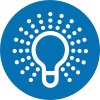
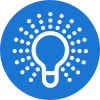
Restyled index so it is less blue, and more consistent - fixed keyframe animations not working in safari.

diff --git a/app/assets/stylesheets/frontend/word_switcher.scss b/app/assets/stylesheets/frontend/word_switcher.scss
@@ -23,25 +23,6 @@
   animation:leave-word 0.6s;
 }
 
-@keyframes leave-word {
-  0% {
-    transform: rotateX(0deg);
-    opacity: 0.4;
-  }
-  35% {
-    transform: rotateX(-80deg);
-    opacity: 0.2;
-  }
-  65% {
-    transform: rotateX(-20deg);
-    opacity: 0;
-  }
-  100% {
-    transform: rotateX(180deg);
-    opacity: 0;
-  }
-}
-
 #hero-word-switcher.in span.active {
   opacity: 1;
   transform: rotateX(0deg);
@@ -50,6 +31,62 @@
   animation: enter-word 1.0s;
 }
 
+#hero-word-switcher span {
+  position:absolute;
+  left:0;
+}
+
+@-webkit-keyframes enter-word {
+  0% {
+    transform: rotateX(180deg);
+    opacity: 0;
+  }
+  35% {
+    transform: rotateX(120deg);
+    opacity: 0;
+  }
+  65% {
+    opacity: 0;
+  }
+  100% {
+    transform: rotateX(360deg);
+    opacity: 1;
+  }
+}
+@-moz-keyframes enter-word {
+  0% {
+    transform: rotateX(180deg);
+    opacity: 0;
+  }
+  35% {
+    transform: rotateX(120deg);
+    opacity: 0;
+  }
+  65% {
+    opacity: 0;
+  }
+  100% {
+    transform: rotateX(360deg);
+    opacity: 1;
+  }
+}
+@-o-keyframes enter-word {
+  0% {
+    transform: rotateX(180deg);
+    opacity: 0;
+  }
+  35% {
+    transform: rotateX(120deg);
+    opacity: 0;
+  }
+  65% {
+    opacity: 0;
+  }
+  100% {
+    transform: rotateX(360deg);
+    opacity: 1;
+  }
+}
 @keyframes enter-word {
   0% {
     transform: rotateX(180deg);
@@ -68,7 +105,76 @@
   }
 }
 
-#hero-word-switcher span {
-  position:absolute;
-  left:0;
+
+@-webkit-keyframes leave-word {
+  0% {
+    transform: rotateX(0deg);
+    opacity: 0.4;
+  }
+  35% {
+    transform: rotateX(-80deg);
+    opacity: 0.2;
+  }
+  65% {
+    transform: rotateX(-20deg);
+    opacity: 0;
+  }
+  100% {
+    transform: rotateX(180deg);
+    opacity: 0;
+  }
+}
+@-moz-keyframes leave-word {
+  0% {
+    transform: rotateX(0deg);
+    opacity: 0.4;
+  }
+  35% {
+    transform: rotateX(-80deg);
+    opacity: 0.2;
+  }
+  65% {
+    transform: rotateX(-20deg);
+    opacity: 0;
+  }
+  100% {
+    transform: rotateX(180deg);
+    opacity: 0;
+  }
+}
+@-o-keyframes leave-word {
+  0% {
+    transform: rotateX(0deg);
+    opacity: 0.4;
+  }
+  35% {
+    transform: rotateX(-80deg);
+    opacity: 0.2;
+  }
+  65% {
+    transform: rotateX(-20deg);
+    opacity: 0;
+  }
+  100% {
+    transform: rotateX(180deg);
+    opacity: 0;
+  }
+}
+@keyframes leave-word {
+  0% {
+    transform: rotateX(0deg);
+    opacity: 0.4;
+  }
+  35% {
+    transform: rotateX(-80deg);
+    opacity: 0.2;
+  }
+  65% {
+    transform: rotateX(-20deg);
+    opacity: 0;
+  }
+  100% {
+    transform: rotateX(180deg);
+    opacity: 0;
+  }
 }

diff --git a/app/assets/stylesheets/frontend/pages.scss b/app/assets/stylesheets/frontend/pages.scss
@@ -17,19 +17,19 @@
 
 #pitchhub-banner-logo{
   font-family: 'Courgette', cursive;
-  color: white;
+  color: $color_dark;
   font-size: 6em;
 }
 
 #pitchhub-banner-copy{
   font-weight: 200;
-  color: white;
+  color: $color_dark;
   font-size: 3em;
 }
 
 #banner{
   width:100%;
-  background-color: #2C8DCC;
+  background-color: $color_light_main;
   background-repeat:no-repeat;
   background-size:cover;
   color: $color_pitch_primary_text;
@@ -38,7 +38,7 @@
 }
 
 .site-nav a {
-  color: white;
+  //color: white;
 }
 
 @media screen {
@@ -152,6 +152,18 @@
   margin-bottom: 0.3125em
 }
 
+
+.site-nav-divider{
+  color: #dadde1;
+  display: block;
+  font-size: 13px;
+  font-weight: 600;
+  padding: 0px 10px;
+  height: 34px;
+  line-height: 32px;
+  border-radius: 3px;
+  text-transform: uppercase;
+}
 /* Login */
 #login-background {
     width: 100%;

diff --git a/app/assets/stylesheets/backend/pitch_overwrite.scss b/app/assets/stylesheets/backend/pitch_overwrite.scss
@@ -30,7 +30,7 @@ a.sidebar-title:focus {
 }
 
 body #auth-background{
-  background-color: #EEEEEE;
+  background-color: $color_light_main;
   position:absolute;
   top:0; right:0;
   bottom:0; left:0;
